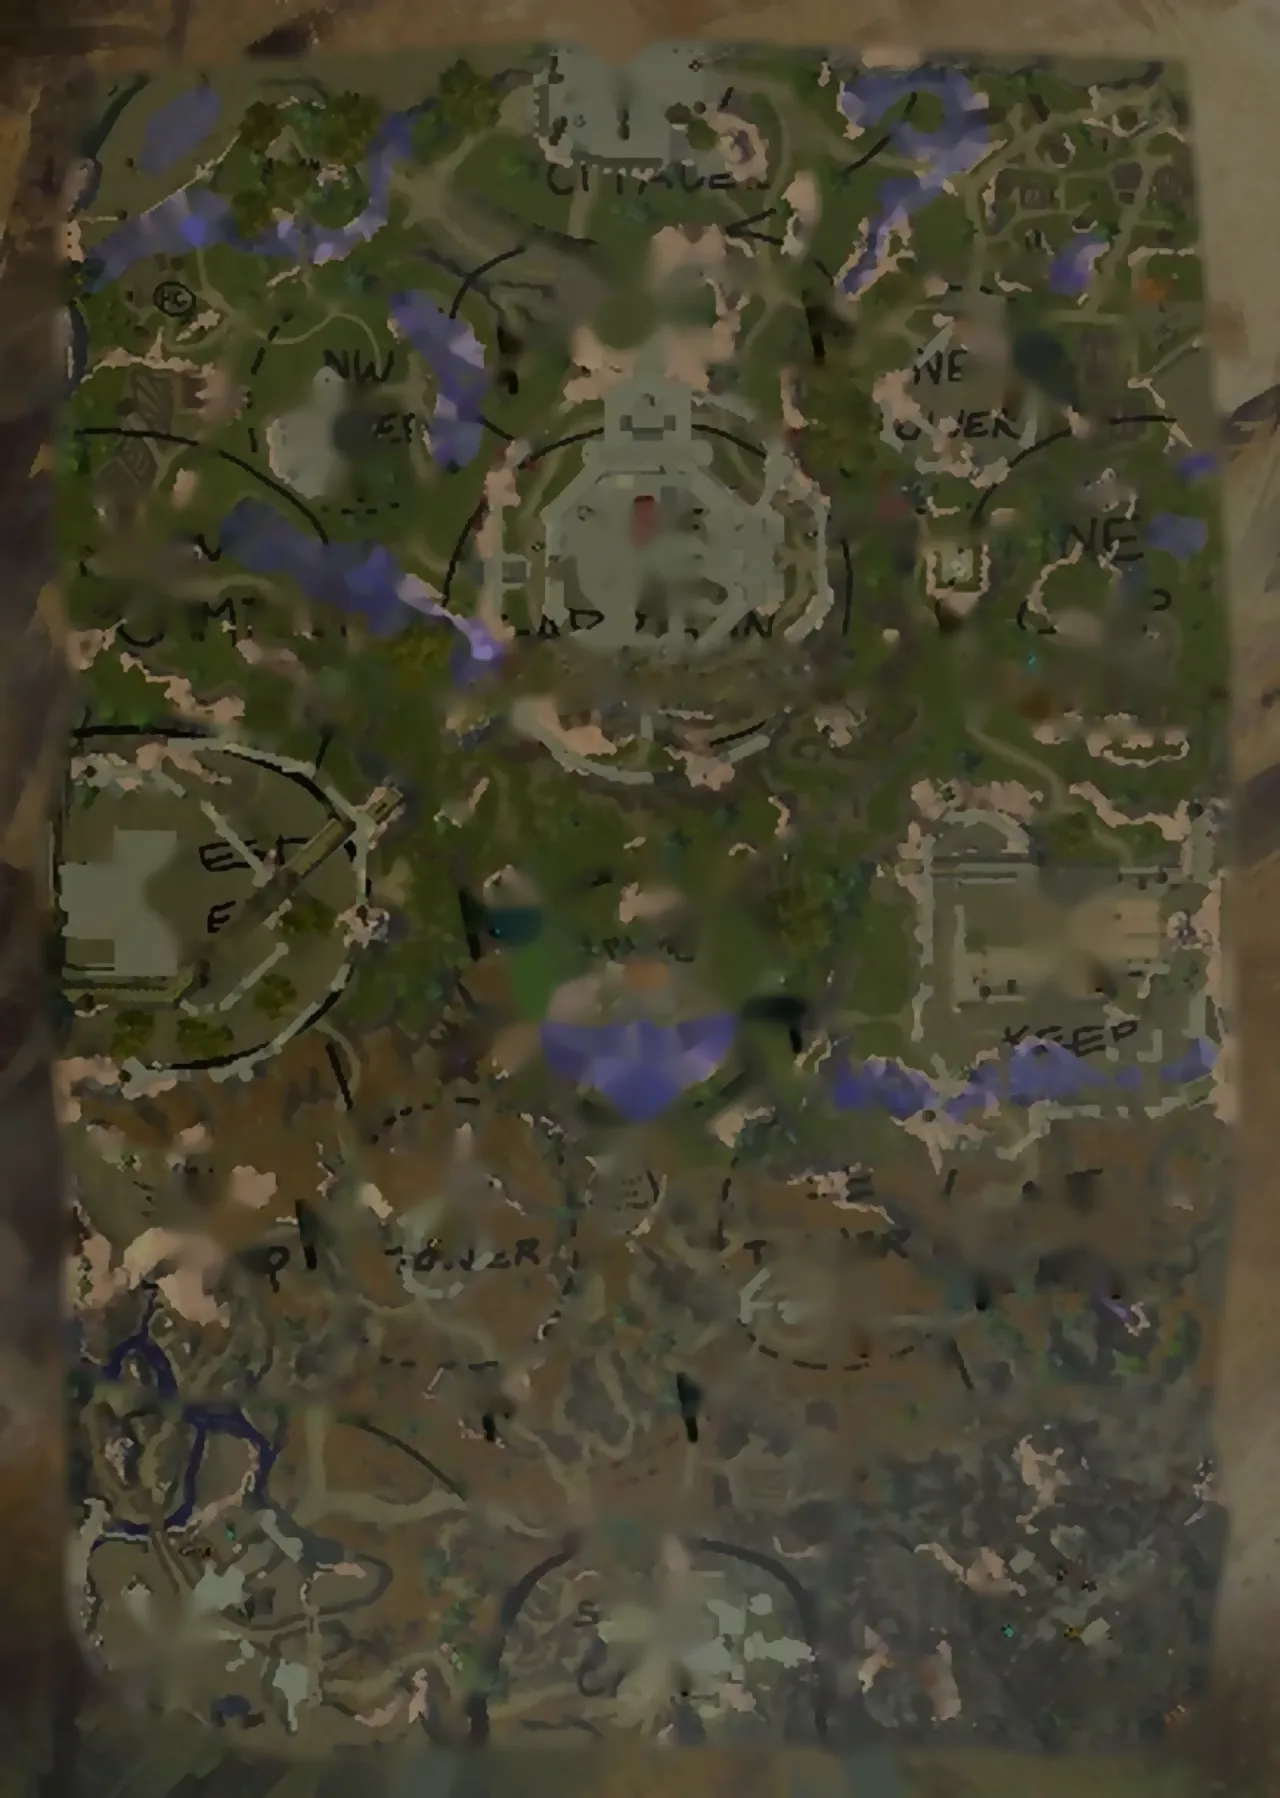
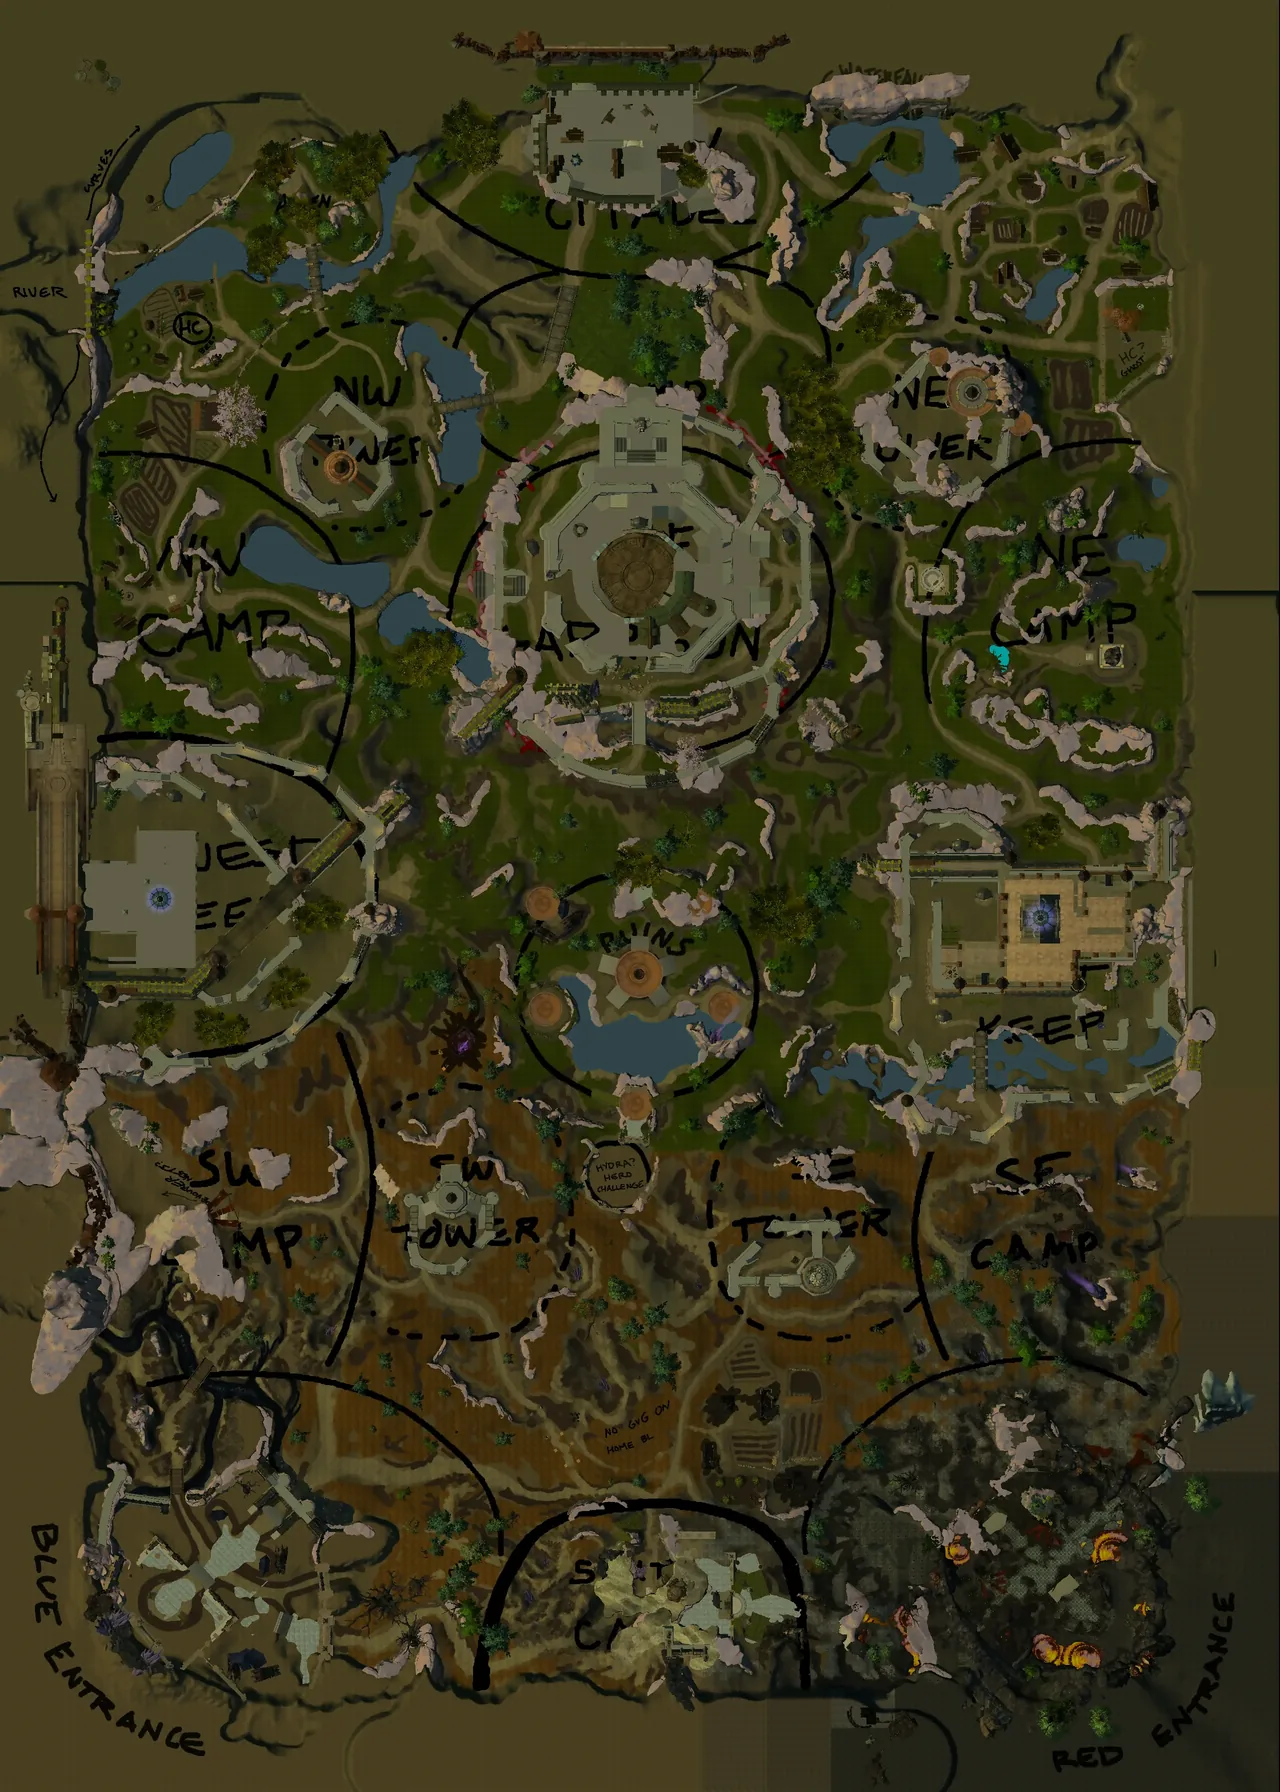
Draw the Seared Borderlands on the wiki's map picture
The three Seared Borderlands maps were drawn on a 1280 px in-game capture,
soft at any zoom. The wiki now publishes the map at 2560 x 3584 (File:Seared
Borderlands map.jpg, 12/11/2026), which is the map's continent_rect at one
pixel to the unit: MAP_IMAGE takes the rectangle from /v2/maps (1652, 1651,
1654) instead of a fitted one, and the stored objective positions land on the
centre of each icon in the new picture without any change.

Toned as the current picture (darker, colour x1.2, brightness x0.62), with
the bright blue water and the salmon patches recoloured to slate and drained
stone rather than painted over, so they do not read as a team's area. The map
now has a full picture (src, 857 KB) besides the 1280 px one it opens on
(252 KB, was 92 KB).

diff --git a/site/js/maps.js b/site/js/maps.js
@@ -31,16 +31,15 @@ const MAX_ZOOM = 4.5;
 // `lite` is the same picture LITE_WIDTH pixels wide; a map opens on it and takes `src` once the zoom
 // needs more pixels than it holds (upgradeTerrain).
 const LITE_WIDTH = 1280;
-const SEARED_IMAGE = 'assets/map-seared-1280.webp';
 const MAP_IMAGE = Object.freeze({
   38: { src: 'assets/map-ebg.webp', lite: 'assets/map-ebg-1280.webp', x: 8846.4, y: 12710.9, w: 3308.0, h: 3293.5, edge: 14 },
   1099: { src: 'assets/map-rbl.webp', lite: 'assets/map-rbl-1280.webp', x: 9133.8, y: 8866.1, w: 3228.6, h: 3245.6, edge: 14 },
   96: { src: 'assets/map-bbl.webp', lite: 'assets/map-bbl-1280.webp', x: 12718.3, y: 10865.3, w: 2660.6, h: 3623.1, edge: 14 },
   95: { src: 'assets/map-gbl.webp', lite: 'assets/map-gbl-1280.webp', x: 5534.1, y: 11493.7, w: 2693.0, h: 3638.3, edge: 14 },
-  // One picture for the three Seared Borderlands maps; there is no bigger one, so src is lite.
-  1652: { src: SEARED_IMAGE, lite: SEARED_IMAGE, x: 9268.0, y: 9045.1, w: 2430.2, h: 3412.8, edge: 14 },
-  1651: { src: SEARED_IMAGE, lite: SEARED_IMAGE, x: 5684.0, y: 11605.1, w: 2430.2, h: 3412.8, edge: 14 },
-  1654: { src: SEARED_IMAGE, lite: SEARED_IMAGE, x: 12852.0, y: 10965.1, w: 2430.2, h: 3412.8, edge: 14 },
+  // One picture for the three Seared Borderlands maps, each its map's continent_rect, one pixel to the unit.
+  1652: { src: 'assets/map-seared.webp', lite: 'assets/map-seared-1280.webp', x: 9214, y: 8958, w: 2560, h: 3584, edge: 14 },
+  1651: { src: 'assets/map-seared.webp', lite: 'assets/map-seared-1280.webp', x: 5630, y: 11518, w: 2560, h: 3584, edge: 14 },
+  1654: { src: 'assets/map-seared.webp', lite: 'assets/map-seared-1280.webp', x: 12798, y: 10878, w: 2560, h: 3584, edge: 14 },
 });
 
 // The three EBG mercenary camps have no usable coord (label_coord sits off the camp), so these are read
